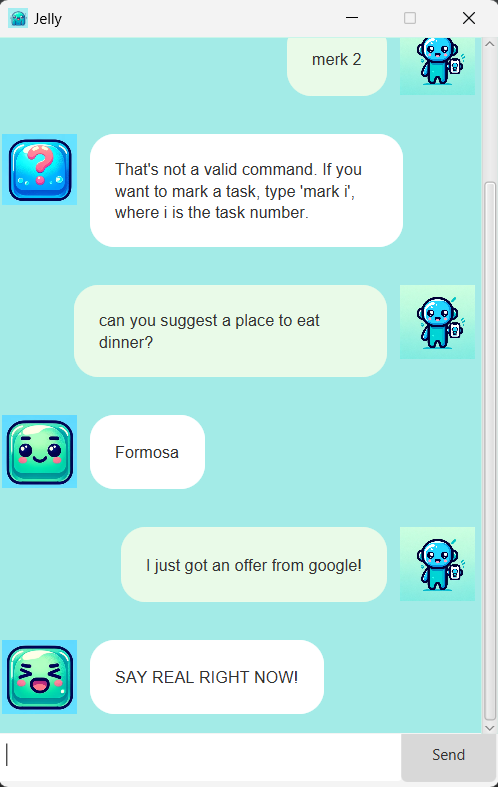
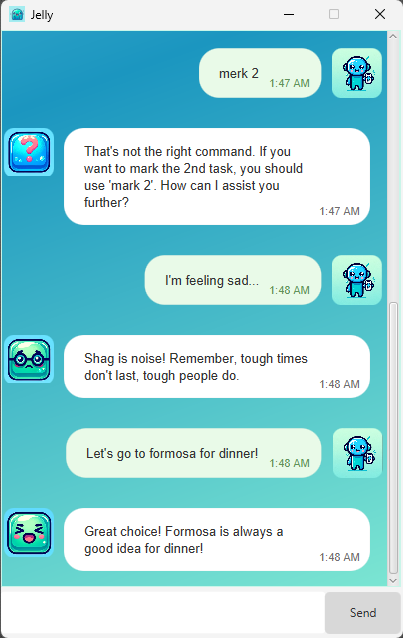
Update Ui.png and improve GUI

diff --git a/src/main/java/jelly/DialogBox.java b/src/main/java/jelly/DialogBox.java
@@ -1,19 +1,17 @@
 package jelly;
 
 import java.io.IOException;
-import java.util.Collections;
+import java.time.LocalDateTime;
+import java.time.format.DateTimeFormatter;
 
-import javafx.collections.FXCollections;
-import javafx.collections.ObservableList;
 import javafx.fxml.FXML;
 import javafx.fxml.FXMLLoader;
-import javafx.geometry.Pos;
-import javafx.scene.Node;
 import javafx.scene.control.Label;
 import javafx.scene.image.Image;
 import javafx.scene.image.ImageView;
 import javafx.scene.layout.HBox;
 import javafx.scene.layout.Region;
+import javafx.scene.shape.Rectangle;
 
 /**
  * An example of a custom control using FXML.
@@ -24,44 +22,49 @@ public class DialogBox extends HBox {
     @FXML
     private Label dialog;
     @FXML
+    private Label time;
+    @FXML
     private ImageView displayPicture;
 
-    private DialogBox(String text, Image img) {
+    private DialogBox(String text, Image img, String fxml) {
 
         try {
-            FXMLLoader fxmlLoader = new FXMLLoader(MainWindow.class.getResource("/view/DialogBox.fxml"));
+            FXMLLoader fxmlLoader = new FXMLLoader(MainWindow.class.getResource(fxml));
             fxmlLoader.setController(this);
             fxmlLoader.setRoot(this);
             fxmlLoader.load();
         } catch (IOException e) {
             e.printStackTrace();
         }
-
         dialog.setText(text);
         dialog.setMinHeight(Region.USE_PREF_SIZE);
+
+        DateTimeFormatter formatter = DateTimeFormatter.ofPattern("H:mm a");
+        time.setText(LocalDateTime.now().format(formatter));
+        time.setMinHeight(Region.USE_PREF_SIZE);
         displayPicture.setImage(img);
-    }
 
-    /**
-     * Flips the dialog box such that the ImageView is on the left and text on the right.
-     */
-    private void flip() {
+        final Rectangle clip = new Rectangle(displayPicture.getFitWidth(), displayPicture.getFitHeight());
+        clip.setArcWidth(20); // Adjust the corner radius here
+        clip.setArcHeight(20); // Adjust the corner radius here
+        displayPicture.setClip(clip);
 
-        ObservableList<Node> tmp = FXCollections.observableArrayList(this.getChildren());
-        Collections.reverse(tmp);
-        getChildren().setAll(tmp);
-        setAlignment(Pos.TOP_LEFT);
+        displayPicture.fitWidthProperty().addListener((obs, oldVal, newVal) -> {
+            clip.setWidth(newVal.doubleValue());
+        });
+        displayPicture.fitHeightProperty().addListener((obs, oldVal, newVal) -> {
+            clip.setHeight(newVal.doubleValue());
+        });
     }
 
     public static DialogBox getUserDialog(String text, Image img) {
-        return new DialogBox(text, img);
+
+        return new DialogBox(text, img, "/view/DialogBox.fxml");
     }
 
     public static DialogBox getJellyDialog(String text, Image img) {
 
-        var db = new DialogBox(text, img);
-        db.flip();
-        return db;
+        return new DialogBox(text, img, "/view/DialogBoxReverse.fxml");
     }
 }
 

diff --git a/src/main/java/jelly/ChatGptApi.java b/src/main/java/jelly/ChatGptApi.java
@@ -1,8 +1,9 @@
 package jelly;
 
+
 import java.io.BufferedReader;
-import java.io.File;
 import java.io.IOException;
+import java.io.InputStream;
 import java.io.InputStreamReader;
 import java.io.OutputStreamWriter;
 import java.net.HttpURLConnection;
@@ -26,18 +27,9 @@ public class ChatGptApi {
         String apiKey = "";
         String role = "";
 
-        Scanner scanner;
-        File file;
-        File keyFile;
         try {
-            file = new File("./src/main/resources/trivia/personality.txt");
-            file.createNewFile(); //if file exists, does nothing
-            keyFile = new File("./src/main/resources/trivia/keyencrypted.txt");
-            keyFile.createNewFile();
-            scanner = new Scanner(file);
-            role = loadFromScanner(scanner);
-            scanner = new Scanner(keyFile);
-            apiKeyEnc = loadFromScanner(scanner);
+            role = loadFromFile("/trivia/personality.txt");
+            apiKeyEnc = loadFromFile("/trivia/keyencrypted.txt");
         } catch (IOException e) {
             System.out.println("An error occurred while loading personality!");
         }
@@ -47,12 +39,19 @@ public class ChatGptApi {
         return promptResponse(apiKey, url, model, prompt, role);
     }
 
-    private static String loadFromScanner(Scanner scanner) {
+    private static String loadFromFile(String path) throws IOException {
 
         String result = "";
+
+        InputStream stream = ChatGptApi.class.getResourceAsStream(path);
+
+        Scanner scanner = new Scanner(stream);
         while (scanner.hasNextLine()) {
-            result = result + scanner.nextLine();
+            String line = scanner.nextLine();
+            result = result + line;
         }
+        scanner.close();
+
         return result;
     }
 

diff --git a/src/main/java/Jelly/TaskList.java b/src/main/java/Jelly/TaskList.java
@@ -122,7 +122,7 @@ public class TaskList {
         }
         Task task = tasks.get(index - 1);
         task.mark();
-        assert(task.isDone());
+        assert (task.isDone());
         return "Nice, I've marked this task as done:\n" + task;
     }
 
@@ -137,7 +137,7 @@ public class TaskList {
         }
         Task task = tasks.get(index - 1);
         task.unmark();
-        assert(!task.isDone());
+        assert (!task.isDone());
         return "OK, I've marked this task as not done yet:\n" + task;
     }
 
@@ -145,7 +145,7 @@ public class TaskList {
      * @param keyword keyword to be searched in the TaskList
      * @return An array of Task entries whose name contains keyword.
      */
-    public TaskList find(String keyword) {
+    public String find(String keyword) {
 
         TaskList result = new TaskList();
 
@@ -157,13 +157,17 @@ public class TaskList {
             }
         }
 
-        return result;
+        if (result.size() != 0) {
+            return "hardworking Here are the tasks that match your keyword!\n" + result;
+        } else {
+            return "sad Nothing in the task list contains the word '" + keyword + "'.";
+        }
     }
 
     @Override
     public String toString() {
 
-        if(tasks.size() == 0) {
+        if (tasks.size() == 0) {
 
             return "There isn't anything in the task list yet!";
         }

diff --git a/src/main/java/jelly/MainWindow.java b/src/main/java/jelly/MainWindow.java
@@ -1,7 +1,9 @@
 package jelly;
 
 
+import javafx.animation.PauseTransition;
 import javafx.animation.ScaleTransition;
+import javafx.application.Platform;
 import javafx.fxml.FXML;
 import javafx.scene.control.Button;
 import javafx.scene.control.ScrollPane;
@@ -116,6 +118,16 @@ public class MainWindow extends AnchorPane {
     }
 
     /**
+     * @param duration duration before exit in seconds
+     */
+    public void delayedExit(double duration) {
+
+        PauseTransition delay = new PauseTransition(Duration.seconds(duration));
+        delay.setOnFinished(event -> Platform.exit());
+        delay.play();
+    }
+
+    /**
      * Creates two dialog boxes, one echoing user input and the other containing Duke's reply and then appends them to
      * the dialog container. Clears the user input after processing.
      */
@@ -143,6 +155,7 @@ public class MainWindow extends AnchorPane {
         if (response.equals("bye")) {
             jelly.saveStorage();
             response = jelly.getFarewell();
+            delayedExit(1.75);
         }
         addContainers(input, response, mood);
         userInput.clear();

diff --git a/src/main/java/jelly/Main.java b/src/main/java/jelly/Main.java
@@ -5,6 +5,7 @@ import java.io.IOException;
 import javafx.application.Application;
 import javafx.fxml.FXMLLoader;
 import javafx.scene.Scene;
+import javafx.scene.image.Image;
 import javafx.scene.layout.AnchorPane;
 import javafx.stage.Stage;
 
@@ -24,8 +25,12 @@ public class Main extends Application {
             AnchorPane ap = fxmlLoader.load();
             Scene scene = new Scene(ap);
             stage.setScene(scene);
+            stage.setTitle("Jelly");
+            stage.getIcons().add(new Image(this.getClass().getResourceAsStream("/images/Title_icon.png")));
+            stage.setResizable(false);
             fxmlLoader.<MainWindow>getController().setJelly(jelly);
             stage.show();
+            stage.setOnCloseRequest(we -> jelly.saveStorage());
 
         } catch (IOException e) {
 

diff --git a/src/main/java/Jelly/Ui.java b/src/main/java/Jelly/Ui.java
@@ -58,15 +58,4 @@ public class Ui {
 
         System.out.println(message);
     }
-
-    /**
-     * @param taskList TaskList to search from
-     * @param keyword keyword of task to search
-     */
-    public void printSearchResults(TaskList taskList, String keyword) {
-
-        TaskList result = taskList.find(keyword);
-
-        System.out.println(result);
-    }
 }

diff --git a/src/main/java/Jelly/Parser.java b/src/main/java/Jelly/Parser.java
@@ -118,7 +118,7 @@ public class Parser {
      */
     public String findResponse(String argument, String[] lines) {
 
-        return "hardworking Here are the tasks that match your keyword!\n" + taskList.find(lines[1]);
+        return taskList.find(lines[1]);
     }
 
     /**
